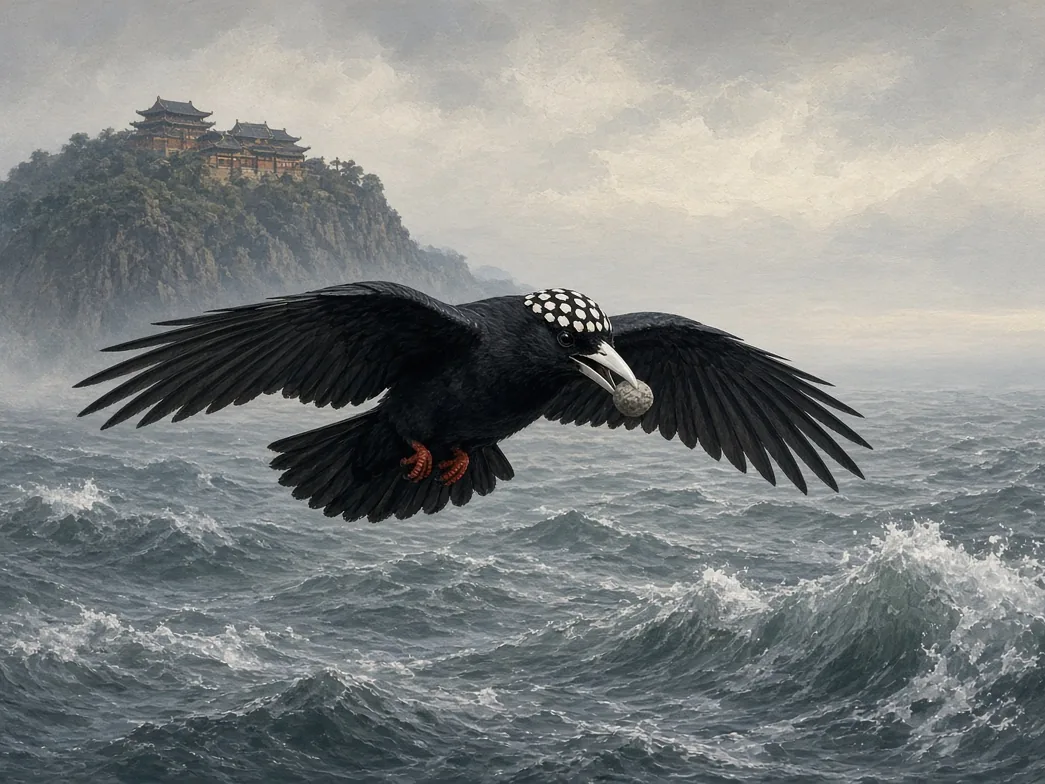
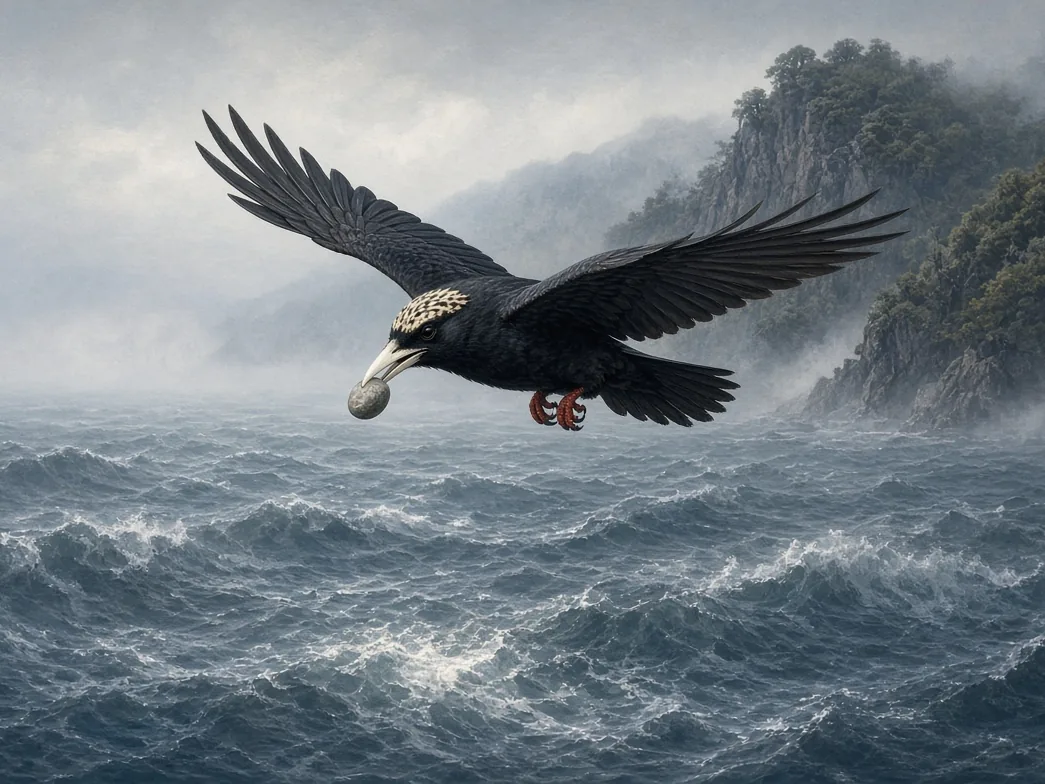
第二批卡片補圖：15 張 Grok 插畫接上卡片
中華：九尾狐、四象、崑崙山（新）；精衛、刑天（換成重生版）。
北歐：索爾、洛基、芙蕾雅、芙麗嘉、巴德爾、海姆達爾、提爾、芬里爾、耶夢加得、世界樹。

Claude-Session: https://claude.ai/code/session_01JFJ5rbGMMVQ3jfvKXdrm5o

diff --git a/cards/place/place-yggdrasil.md b/cards/place/place-yggdrasil.md
@@ -11,6 +11,7 @@ three_lines:
   - 北歐神話裡的世界樹，一棵常綠的白蠟樹（梣樹），長在烏爾德之泉旁。
   - 它有三條根，通到三處泉水；毒龍尼德霍格啃一條根，松鼠拉塔托斯克在樹上跑上跑下傳壞話。
   - 埃達說有「九個世界」，但沒有一致的名單；常見的九界名單是後人整理的。
+images: [img-ai-portrait-yggdrasil]
 hook: 世界樹：長在烏爾德之泉旁的白蠟樹，三條根、一隻傳話的松鼠、一條啃根的龍；諸神黃昏時它會搖動。
 sources:
   - {id: s1, kind: ancient, cite: 《詩體埃達》〈女先知的預言〉第 19–20 節（Bellows 英譯）, url: 'https://www.gutenberg.org/ebooks/73533'}

diff --git a/cards/beast/beast-four-symbols.md b/cards/beast/beast-four-symbols.md
@@ -11,6 +11,7 @@ three_lines:
   - 守護東南西北四個方位的四隻神獸：青龍、白虎、朱雀、玄武。
   - 它們原本是古人把天上的星星分成四大區，各用一隻動物來代表。
   - 風水說「左青龍、右白虎」，日本、韓國的古墓壁畫和不少動漫遊戲裡也都看得到它們。
+images: [img-ai-portrait-four-symbols]
 hook: 四象：東青龍、西白虎、南朱雀、北玄武，守著天空的四個方向。
 sources:
   - {id: s1, kind: ancient, cite: 《淮南子·天文訓》（西漢，劉安主編）, url: 'https://zh.wikisource.org/wiki/淮南子/天文訓'}

diff --git a/cards/god/god-heimdall.md b/cards/god/god-heimdall.md
@@ -17,6 +17,7 @@ domains:
   symbols: [金牙, 金鬃（他的馬）, 號角加拉爾, 彩虹橋畢弗羅斯特]
 how_to_recognize: 故事裡的特徵：有一口金牙；騎的馬叫金鬃；手邊有號角加拉爾，聲音響徹所有世界；住在彩虹橋畢弗羅斯特旁。這些是故事裡的描述。
 how_to_recognize_src: [s1]
+images: [img-ai-portrait-heimdall]
 few_images: 這批還沒有收錄作品圖。
 sources:
   - {id: s1, kind: ancient, cite: 斯諾里《散文埃達》〈欺騙古魯菲〉第 27 章（Brodeur 英譯）, url: 'https://www.voluspa.org/gylfaginning21-30.htm'}

diff --git a/cards/beast/beast-ninetail-fox.md b/cards/beast/beast-ninetail-fox.md
@@ -11,6 +11,7 @@ three_lines:
   - 《山海經》裡住在青丘山的九條尾巴的狐狸。
   - 牠叫聲像嬰兒、會吃人，但人吃了牠的肉，就不會被妖邪迷惑。
   - 後來的小說把牠寫成會變美女的狐狸精，日本、韓國的九尾狐傳說也從這裡流傳過去。
+images: [img-ai-portrait-ninetail-fox]
 hook: 九尾狐：一開始是吃了能避邪的怪獸，後來才變成迷人的狐狸精。
 sources:
   - {id: s1, kind: ancient, cite: 《山海經·南山經》, url: 'https://zh.wikisource.org/wiki/山海經/南山經'}

diff --git a/cards/place/place-kunlun.md b/cards/place/place-kunlun.md
@@ -11,6 +11,7 @@ three_lines:
   - 中華神話裡眾神居住的仙山，地位像希臘的奧林帕斯山。
   - 《山海經》說它是天帝在人間的都城，百神聚集，西王母也住在附近。
   - 今天中國西部真的有一條「崑崙山脈」，是漢代才用神話的名字替它命名的。
+images: [img-ai-portrait-kunlun]
 hook: 崑崙山：天帝在人間的都城，中華神話的奧林帕斯。
 sources:
   - {id: s1, kind: ancient, cite: 《山海經·西山經》, url: 'https://zh.wikisource.org/wiki/山海經/西山經'}

diff --git a/cards/god/god-loki.md b/cards/god/god-loki.md
@@ -17,6 +17,7 @@ domains:
   symbols: [鮭魚（他躲藏時變成的樣子）, 毒蛇與接毒液的碗（他被綁時）]
 how_to_recognize: 故事裡最有名的畫面是他被綁：頭上掛著一條毒蛇，妻子西格恩用碗接毒液；他一掙扎，大地就震動。他也常以偽裝出現：扮成女人，或變成鮭魚。這些是故事裡的描述。
 how_to_recognize_src: [s6, s7, s4]
+images: [img-ai-portrait-loki]
 few_images: 這批還沒有收錄作品圖。
 family:
   parents:

diff --git a/cards/god/god-thor.md b/cards/god/god-thor.md
@@ -17,6 +17,7 @@ domains:
   symbols: [錘子妙爾尼爾, 力量腰帶, 鐵手套, 兩隻公山羊拉的車]
 how_to_recognize: 故事裡的特徵：手上有錘子妙爾尼爾，繫著力量腰帶（繫上以後力量加一半），戴著鐵手套；坐的車由兩隻公山羊拉，一隻叫咬牙者，一隻叫磨牙者。這些是故事裡的描述。
 how_to_recognize_src: [s2]
+images: [img-ai-portrait-thor]
 few_images: 這批還沒有收錄作品圖。
 family:
   parents:

diff --git a/cards/god/god-tyr.md b/cards/god/god-tyr.md
@@ -17,6 +17,7 @@ domains:
   symbols: [被狼咬斷的右手]
 how_to_recognize: 故事裡的特徵：他失去了右手，是被狼芬里爾咬斷的。這是故事裡的描述。
 how_to_recognize_src: [s1, s2]
+images: [img-ai-portrait-tyr]
 few_images: 這批還沒有收錄作品圖。
 sources:
   - {id: s1, kind: ancient, cite: 斯諾里《散文埃達》〈欺騙古魯菲〉第 25 章（Brodeur 英譯）, url: 'https://www.voluspa.org/gylfaginning21-30.htm'}

diff --git a/cards/monster/monster-fenrir.md b/cards/monster/monster-fenrir.md
@@ -17,6 +17,7 @@ domains:
   symbols: [鎖鏈格萊普尼爾, 被劍撐開的嘴, 流成河的口水]
 how_to_recognize: 故事裡的畫面：一隻被像絲帶一樣的鎖鏈綁住的狼；眾神用劍撐開牠的嘴，口水流成河；旁邊有人把右手放在牠的嘴裡。這些是故事裡的描述。
 how_to_recognize_src: [s1]
+images: [img-ai-portrait-fenrir]
 few_images: 這批還沒有收錄作品圖。
 family:
   parents:

diff --git a/cards/god/god-freyja.md b/cards/god/god-freyja.md
@@ -17,6 +17,7 @@ domains:
   symbols: [貓拉的車, 紅金色的眼淚, 布里辛嘉曼項鍊, 鷹羽衣]
 how_to_recognize: 故事裡的特徵：坐的車由貓拉；有一條布里辛嘉曼項鍊；流的眼淚是紅金；有一件鷹羽衣。這些是故事裡的描述。
 how_to_recognize_src: [s2, s3, s4]
+images: [img-ai-portrait-freyja]
 few_images: 這批還沒有收錄作品圖。
 family:
   parents:

diff --git a/cards/god/god-frigg.md b/cards/god/god-frigg.md
@@ -17,6 +17,7 @@ domains:
   symbols: [宮殿芬撒里爾]
 how_to_recognize: 來源沒有交代她固定的外貌或隨身物品，所以這裡只列故事裡的特徵：她是女神之首，住在宮殿芬撒里爾，知道所有人的命運卻不說出預言。
 how_to_recognize_src: [s2, s3]
+images: [img-ai-portrait-frigg]
 few_images: 這批還沒有收錄作品圖。
 family:
   consorts:

diff --git a/cards/monster/monster-jormungandr.md b/cards/monster/monster-jormungandr.md
@@ -17,6 +17,7 @@ domains:
   symbols: [環繞大地的身體, 咬住自己的尾巴]
 how_to_recognize: 故事裡的畫面：一條大到環繞大地的蛇，咬著自己的尾巴；或是被索爾釣上船的蛇。這些是故事裡的描述。
 how_to_recognize_src: [s1, s3]
+images: [img-ai-portrait-jormungandr]
 few_images: 這批還沒有收錄作品圖。
 family:
   parents:
